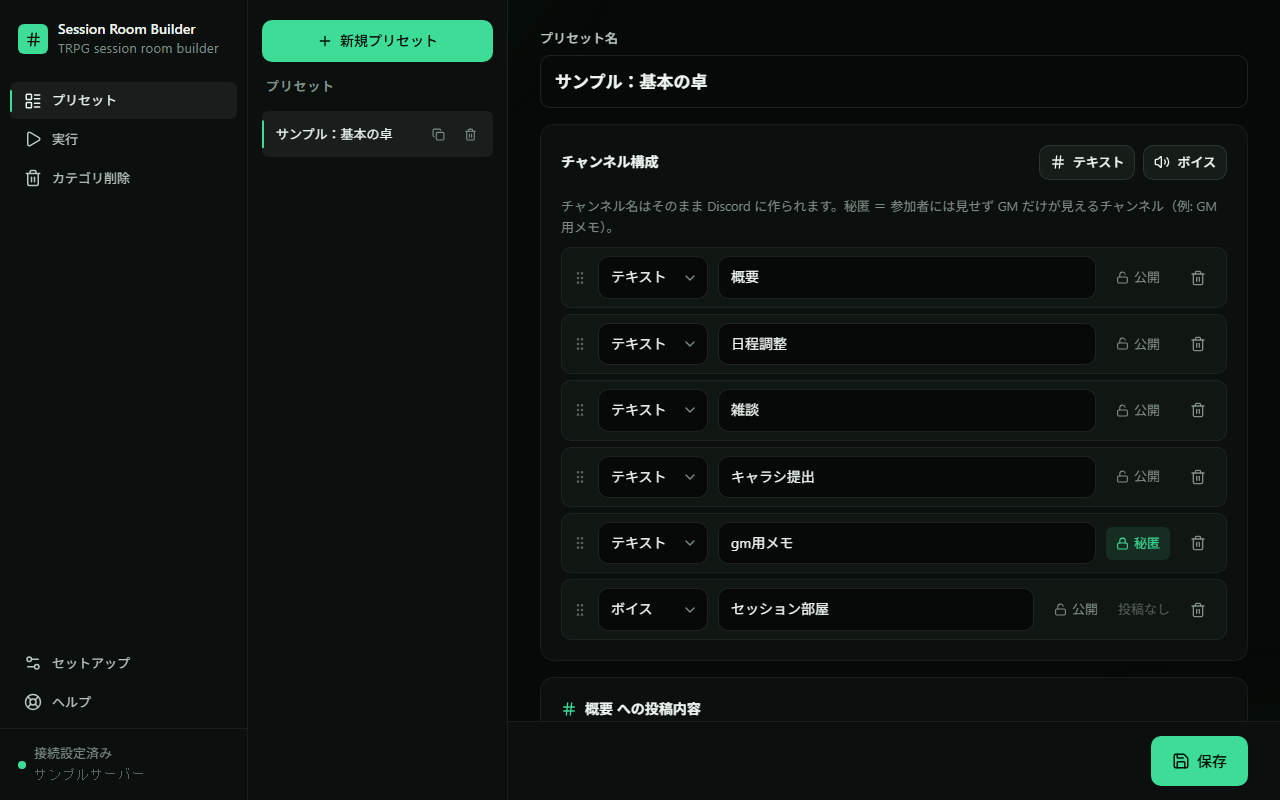
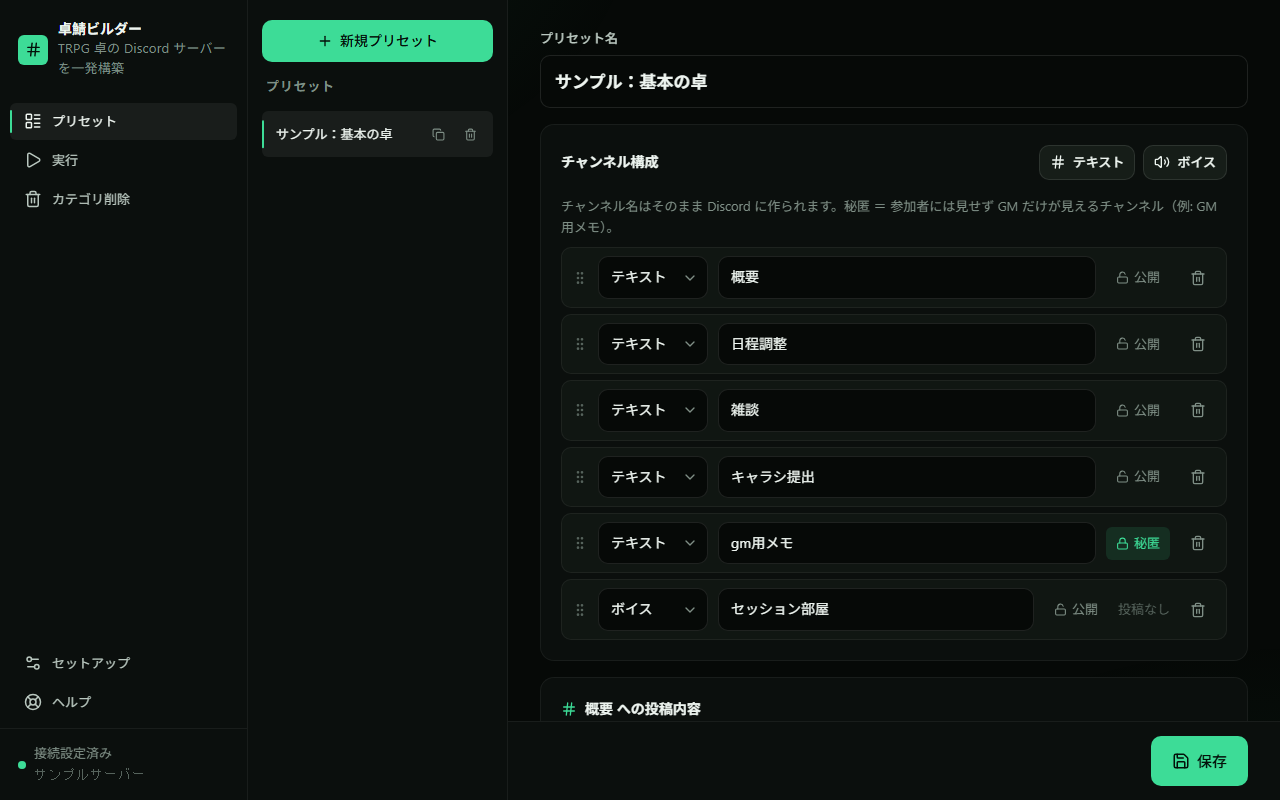
卓鯖ビルダー v1.1.0 — rename from Session Room Builder

Changed region(s): [[0.0, 0.125, 0.125, 0.2812], [0.0, 0.0312, 0.1562, 0.0938]]

diff --git a/web/src/App.tsx b/web/src/App.tsx
@@ -86,8 +86,8 @@ function Shell() {
                 <div className={styles.initialBrand}>
                     <div className={styles.logo}><Hash size={17} /></div>
                     <div>
-                        <div className={styles.brandName}>Session Room Builder</div>
-                        <div className={styles.brandSub}>TRPG session room builder</div>
+                        <div className={styles.brandName}>卓鯖ビルダー</div>
+                        <div className={styles.brandSub}>TRPG 卓の Discord サーバーを一発構築</div>
                     </div>
                 </div>
                 <div className={styles.initialBody}>
@@ -114,8 +114,8 @@ function Shell() {
                 <div className={styles.brand}>
                     <div className={styles.logo}><Hash size={17} /></div>
                     <div>
-                        <div className={styles.brandName}>Session Room Builder</div>
-                        <div className={styles.brandSub}>TRPG session room builder</div>
+                        <div className={styles.brandName}>卓鯖ビルダー</div>
+                        <div className={styles.brandSub}>TRPG 卓の Discord サーバーを一発構築</div>
                     </div>
                 </div>
 

diff --git a/electron/main.ts b/electron/main.ts
@@ -3,9 +3,11 @@ import path from 'path';
 
 // These must be set BEFORE src/paths.ts is evaluated (it reads env at import
 // time), so the server module is loaded lazily via dynamic import below.
-app.setName('Session Room Builder');
+app.setName('卓鯖ビルダー');
+// Keep userData on an ASCII path for consistent tooling/AV behaviour
+app.setPath('userData', path.join(app.getPath('appData'), 'TakusabaBuilder'));
 process.env.SRB_APP_ROOT = app.isPackaged
-    ? app.getPath('userData') // %APPDATA%/Session Room Builder (win) / ~/Library/Application Support (mac)
+    ? app.getPath('userData') // %APPDATA%/TakusabaBuilder (win) / ~/Library/Application Support/TakusabaBuilder (mac)
     : path.join(__dirname, '..'); // dev `electron .`: repository root
 process.env.SRB_WEB_DIST = path.join(app.getAppPath(), 'web/dist');
 
@@ -42,7 +44,7 @@ const createWindow = async () => {
         minWidth: 1000,
         minHeight: 680,
         backgroundColor: '#060907',
-        title: 'Session Room Builder',
+        title: '卓鯖ビルダー',
         autoHideMenuBar: true,
         show: false,
         webPreferences: {

diff --git a/web/index.html b/web/index.html
@@ -4,7 +4,7 @@
     <meta charset="UTF-8" />
     <link rel="icon" type="image/svg+xml" href="/vite.svg" />
     <meta name="viewport" content="width=device-width, initial-scale=1.0" />
-    <title>TRPG Session Room Builder</title>
+    <title>卓鯖ビルダー</title>
   </head>
   <body>
     <div id="root"></div>

diff --git a/AGENTS.md b/AGENTS.md
@@ -1,18 +1,18 @@
-# Session Room Builder — agent notes
+# 卓鯖ビルダー (TakusabaBuilder) — agent notes
 
 ## Verify
 - Server types: `npx tsc --noEmit -p tsconfig.json`
 - Web: `cd web && npx tsc -b && npx eslint . && npm run build`
-- Release exe: `npm run release` → `release/SessionRoomBuilder.exe` (needs network for pkg base binary)
-- Smoke-test the exe from a copy of `release/` with `PORT=3100`; never call `/api/setup/save`, `/api/run/*` against the real server during tests.
+- Release: `npm run dist:win` → `release/TakusabaBuilder-Setup-*` (electron-builder)
+- Never call `/api/setup/save`, `/api/run/*` against the real server during tests.
 
 ## Gotchas
 - `data/presets.json` and `data/assets/` are the owner's live data — do not modify or stage.
 - CSS Modules localise `animation-name`; define `@keyframes` inside the same `.module.css` (global keyframes in `index.css` are only reachable via global classes like `.anim-rise`).
 - `data/config.json` (gitignored) holds the bot token; `.env` is a fallback only.
-- `src/paths.ts` resolves everything relative to the exe when `process.pkg` is set.
+- The `managed_by=local_preset_tool` channel-topic marker is a compatibility contract — do not rename.
 
 ## Electron
 - Run Electron with `env -u ELECTRON_RUN_AS_NODE` in this environment (Devin CLI sets it globally); otherwise the app runs as plain Node and exits.
-- Dev: `npm run electron:dev`. Packaged data dir is `app.getPath('userData')/data`; dev uses repo `data/`.
+- Dev: `npm run electron:dev`. Packaged data dir is `%APPDATA%\TakusabaBuilder\data` (ASCII-forced via `app.setPath`); dev uses repo `data/`.
 - Mac builds (`npm run dist:mac`) only work on macOS — use the GitHub Actions workflow (`.github/workflows/release.yml`, tag `v*`).
